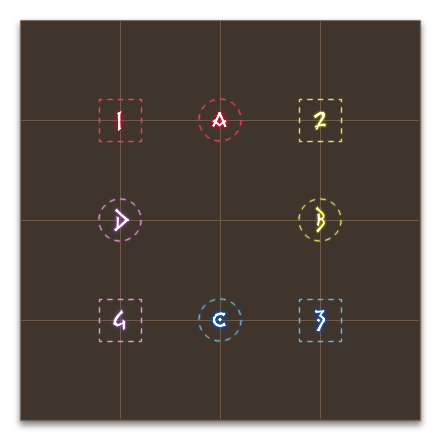
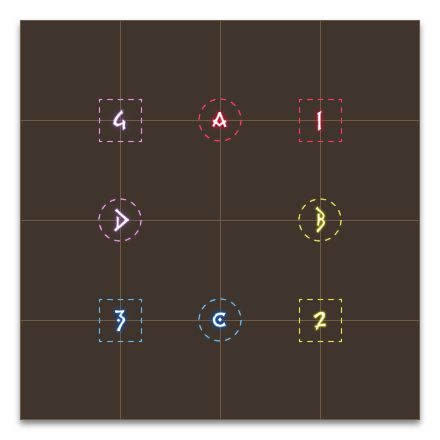
Fixing ketuduke markers

diff --git a/guides/_ew/aai/ketuduke/common/markers.md b/guides/_ew/aai/ketuduke/common/markers.md
@@ -13,14 +13,14 @@ solve the adds mechanic, where the color pairs are important.
 
 ```json
 {"Name":"Ketuduke","MapID":979,
-"A":{"X":-0.121,"Y":0.0,"Z":-9.813,"ID":0,"Active":true},
-"B":{"X":10.118,"Y":0.0,"Z":-0.265,"ID":1,"Active":true},
-"C":{"X":-0.085,"Y":0.0,"Z":10.153,"ID":2,"Active":true},
-"D":{"X":-9.926,"Y":0.0,"Z":0.016,"ID":3,"Active":true},
-"One":{"X":-9.917,"Y":0.0,"Z":-9.813,"ID":4,"Active":true},
-"Two":{"X":10.04,"Y":0.0,"Z":-10.068,"ID":5,"Active":true},
-"Three":{"X":9.959,"Y":0.0,"Z":10.063,"ID":6,"Active":true},
-"Four":{"X":-10.008,"Y":0.0,"Z":10.033,"ID":7,"Active":true}}
+"A":{"X":0.0,"Y":0.0,"Z":-10.0,"ID":0,"Active":true},
+"B":{"X":10.0,"Y":0.0,"Z":0.0,"ID":1,"Active":true},
+"C":{"X":0.0,"Y":0.0,"Z":10.0,"ID":2,"Active":true},
+"D":{"X":-10.0,"Y":0.0,"Z":0.0,"ID":3,"Active":true},
+"One":{"X":10.0,"Y":0.0,"Z":-10.0,"ID":4,"Active":true},
+"Two":{"X":10.0,"Y":0.0,"Z":10.0,"ID":5,"Active":true},
+"Three":{"X":-10.0,"Y":0.0,"Z":10.0,"ID":6,"Active":true},
+"Four":{"X":-10.0,"Y":0.0,"Z":-10.0,"ID":7,"Active":true}}
 ```
 
 {: .mb-1 .fs-6 }
@@ -28,13 +28,13 @@ solve the adds mechanic, where the color pairs are important.
 
 ```json
 {"Name":"Ketuduke","MapID":980,
-"A":{"X":-0.121,"Y":0.0,"Z":-9.813,"ID":0,"Active":true},
-"B":{"X":10.118,"Y":0.0,"Z":-0.265,"ID":1,"Active":true},
-"C":{"X":-0.085,"Y":0.0,"Z":10.153,"ID":2,"Active":true},
-"D":{"X":-9.926,"Y":0.0,"Z":0.016,"ID":3,"Active":true},
-"One":{"X":-9.917,"Y":0.0,"Z":-9.813,"ID":4,"Active":true},
-"Two":{"X":10.04,"Y":0.0,"Z":-10.068,"ID":5,"Active":true},
-"Three":{"X":9.959,"Y":0.0,"Z":10.063,"ID":6,"Active":true},
-"Four":{"X":-10.008,"Y":0.0,"Z":10.033,"ID":7,"Active":true}}
+"A":{"X":0.0,"Y":0.0,"Z":-10.0,"ID":0,"Active":true},
+"B":{"X":10.0,"Y":0.0,"Z":0.0,"ID":1,"Active":true},
+"C":{"X":0.0,"Y":0.0,"Z":10.0,"ID":2,"Active":true},
+"D":{"X":-10.0,"Y":0.0,"Z":0.0,"ID":3,"Active":true},
+"One":{"X":10.0,"Y":0.0,"Z":-10.0,"ID":4,"Active":true},
+"Two":{"X":10.0,"Y":0.0,"Z":10.0,"ID":5,"Active":true},
+"Three":{"X":-10.0,"Y":0.0,"Z":10.0,"ID":6,"Active":true},
+"Four":{"X":-10.0,"Y":0.0,"Z":-10.0,"ID":7,"Active":true}}
 ```
 {% endcollapse %}
